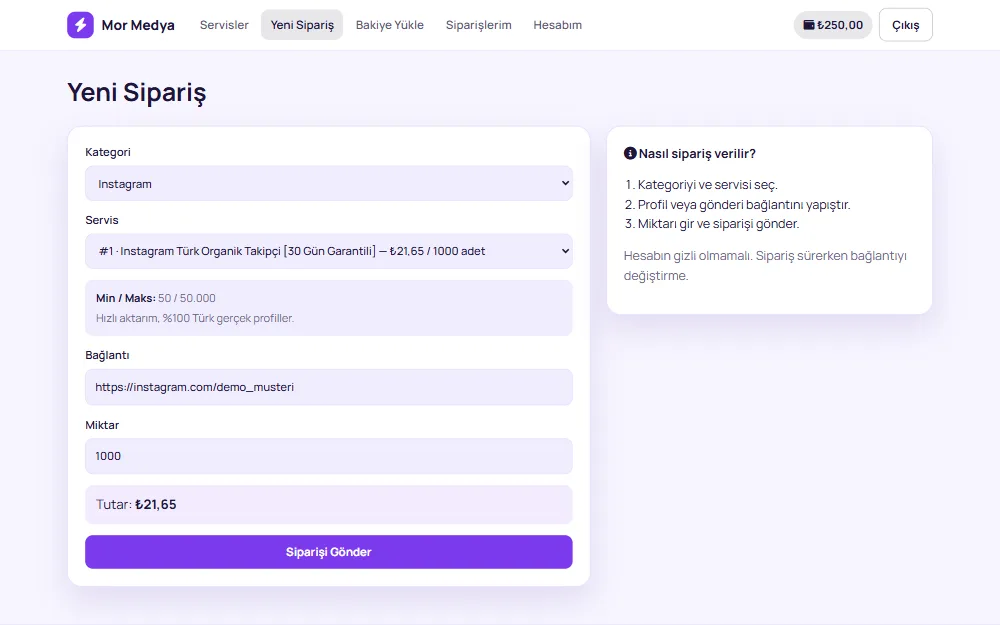
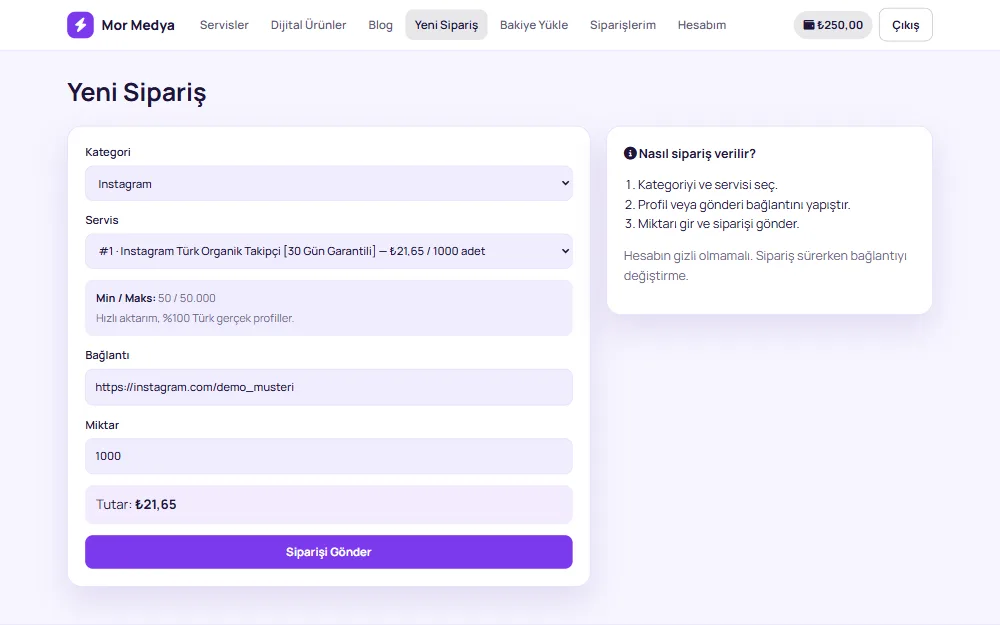
Demo bayi Pro pakette: ornek blog, satis sayfasi ve kendi urun
Demo panelde Pro sayfalari kilitli gorunmesin diye demo bayi Pro
yapilir; demo sitelerde ornek blog yazilari, satis sayfasi ve
bayinin kendi dijital urunu gorunur. /bayilik gorselleri yeni
panel menusu ve jetsmmpanel.com adresleriyle yeniden cekildi.

Changed region(s): [[0.248, 0.0, 0.651, 0.0608], [0.682, 0.0304, 0.713, 0.0608]]

diff --git a/services/demoTenant.js b/services/demoTenant.js
@@ -31,6 +31,41 @@ async function randomPasswordHash() {
   return bcrypt.hash(crypto.randomBytes(32).toString('hex'), 10);
 }
 
+const DEMO_POSTS = [
+  ['blog', 'instagram-takipci-nasil-artar', 'Instagram takipçisi nasıl artar? 7 pratik yol', 'Organik büyüme ile reklamı birlikte kullanmanın kısa rehberi.',
+    '## Düzenli paylaş\nHaftada en az 3 gönderi ve her gün hikâye, algoritmanın seni unutmamasını sağlar.\n\n## Reels kullan\n- İlk 2 saniyede dikkat çek\n- Trend sesleri kullan\n- Altyazı ekle\n\n## Etkileşimi büyüt\nYeni bir hesapta ilk izlenim önemlidir; takipçi ve beğeni desteği ilk ivmeyi verir.'],
+  ['blog', 'tiktok-kesfete-dusmek', 'TikTok keşfete nasıl düşülür?', 'Keşfet algoritmasının sevdiği 5 alışkanlık.',
+    '## İzlenme süresi her şeydir\nVideonun sonuna kadar izlenmesi, beğeniden daha değerlidir.\n\n- Kısa ve net giriş\n- Döngüye giren kurgu\n- Yorum davet eden soru'],
+  ['page', 'instagram-takipci-satin-al', 'Instagram Takipçi Satın Al', 'Hızlı başlangıç, düşüşe karşı telafi, güvenli ödeme.',
+    '## Neden bizden almalısın?\n- Siparişler dakikalar içinde başlar\n- Şifre istemeyiz, yalnızca kullanıcı adı yeter\n- Düşüş olursa telafi isteyebilirsin\n\n## Nasıl sipariş verilir?\nAşağıdan "Sipariş ver"e bas, bağlantını yapıştır ve miktarı seç.']
+];
+
+// Demo icerigi: yoksa eklenir, varsa dokunulmaz (tekrar calistirmak guvenli).
+async function seedDemoContent(tenantId) {
+  for (const [type, slug, title, excerpt, body] of DEMO_POSTS) {
+    await dbAsync.run(
+      `INSERT OR IGNORE INTO tenant_posts (tenant_id, type, slug, title, excerpt, body, status, published_at)
+       VALUES (?, ?, ?, ?, ?, ?, 'published', CURRENT_TIMESTAMP)`, [tenantId, type, slug, title, excerpt, body]);
+  }
+  const page = await dbAsync.get("SELECT id, service_id FROM tenant_posts WHERE tenant_id = ? AND type = 'page' AND slug = 'instagram-takipci-satin-al'", [tenantId]);
+  if (page && !page.service_id) {
+    const service = await dbAsync.get(
+      `SELECT s.id FROM services s LEFT JOIN categories c ON c.id = s.category_id
+        WHERE s.status = 1 AND s.is_bundle = 0 ORDER BY (lower(COALESCE(s.name_tr, s.name)) LIKE '%instagram%takip%') DESC, s.id LIMIT 1`);
+    if (service) await dbAsync.run('UPDATE tenant_posts SET service_id = ? WHERE id = ?', [service.id, page.id]);
+  }
+  if (!(await dbAsync.get('SELECT 1 FROM tenant_own_products WHERE tenant_id = ?', [tenantId]))) {
+    const { encryptSecret } = require('../utils/security');
+    const product = await dbAsync.run(
+      `INSERT INTO tenant_own_products (tenant_id, name, category, description, usage_note, item_format, price_kurus)
+       VALUES (?, 'Spotify Premium 1 Ay (bayinin kendi ürünü)', 'Abonelik', 'Pro pakette bayi kendi stoğunu yükleyip satar.', 'Örnek ürün.', 'email|şifre', 3990)`, [tenantId]);
+    for (let i = 1; i <= 5; i++) {
+      await dbAsync.run('INSERT INTO tenant_own_product_items (tenant_id, product_id, item_encrypted) VALUES (?, ?, ?)',
+        [tenantId, product.id, encryptSecret(`ornek${i}@demo.invalid|OrnekSifre${i}`)]);
+    }
+  }
+}
+
 async function ensureDemoTenant() {
   let owner = await dbAsync.get('SELECT id FROM users WHERE username = ?', [OWNER_USERNAME]);
   if (!owner) {
@@ -59,6 +94,10 @@ async function ensureDemoTenant() {
     tenant = { id: row.id };
     created = true;
   }
+
+  // Demo Pro pakette: blog, satis sayfasi ve kendi dijital urunu ornekleri.
+  await dbAsync.run("UPDATE tenants SET package = 'pro', pending_package = NULL WHERE id = ?", [tenant.id]);
+  await seedDemoContent(tenant.id);
 
   // "Musteri gozuyle" girisinde kullanilan hesap (sifresi kimsede yok).
   const shopper = await dbAsync.get('SELECT id FROM tenant_customers WHERE tenant_id = ? AND username = ?', [tenant.id, SHOPPER_USERNAME]);

diff --git a/test/tenant-demo.test.js b/test/tenant-demo.test.js
@@ -73,6 +73,13 @@ test('her tema kendi demo adresinde kendi markasıyla açılır; şerit diğer d
   const api = await site('demo-kurumsal.demo.test').get('/api/site');
   assert.equal(api.body.name, 'Atlas Dijital');
   assert.equal((await site('demo-yok.demo.test').get('/')).status, 404, 'tanımsız demo adresi');
+  // Demo Pro pakette: örnek blog, satış sayfası ve kendi dijital ürünü görünür.
+  const blog = await site('demo-gece.demo.test').get('/blog');
+  assert.equal(blog.status, 200);
+  assert.match(blog.text, /href="\/blog\/instagram-takipci-nasil-artar"/);
+  assert.equal((await site('demo-gece.demo.test').get('/hizmet/instagram-takipci-satin-al')).status, 200);
+  const dijital = (await site('demo-gece.demo.test').get('/api/digital/products')).body.products;
+  assert.ok(dijital.some(p => p.own && p.stock === 5));
 });
 
 test('müşteri gözüyle: şifresiz demo müşteri girişi, örnek siparişler, yazma kapalı', async () => {

diff --git a/utils/resellerPage.js b/utils/resellerPage.js
@@ -10,7 +10,7 @@
 
 const { demoSites } = require('../tenant/demo');
 
-const IMG_VERSION = '1';
+const IMG_VERSION = '2';
 
 function esc(value) {
   return String(value ?? '')
